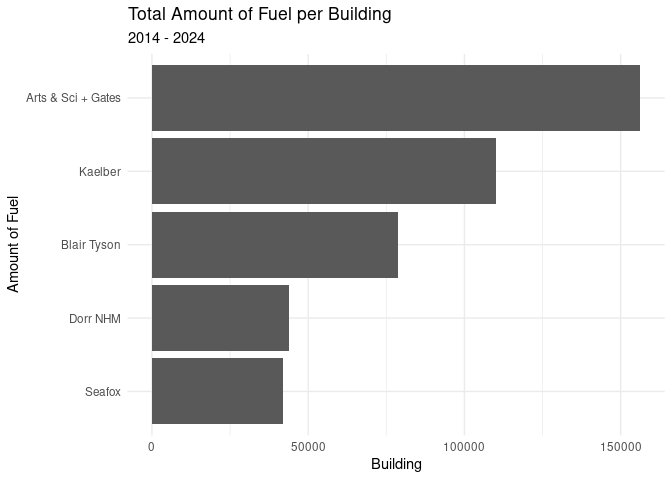
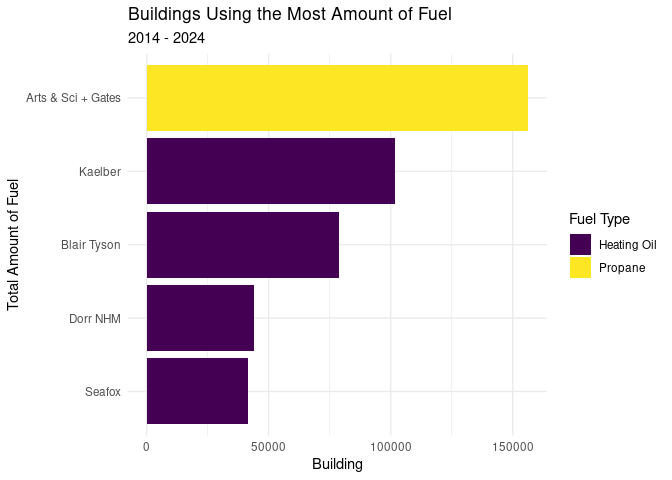
Finalize plots 2 and 3

diff --git a/memo/memo.md b/memo/memo.md
@@ -223,44 +223,59 @@ fuels %>%
 
 ``` r
 fuels |>
-  group_by(Building) |>
+  group_by(Building, Fuel_type) |>
   summarize(Total_Gallons_per_Building = sum(Gallons), .groups = "drop") |>
   slice_max(order_by = Total_Gallons_per_Building, n = 5) |>
   slice_max(Total_Gallons_per_Building, n = 5) |>
-  ggplot(aes(y = fct_reorder(Building, Total_Gallons_per_Building), x = Total_Gallons_per_Building)) +
+  ggplot(aes(y = fct_reorder(Building, Total_Gallons_per_Building), x = Total_Gallons_per_Building, fill = Fuel_type)) +
   geom_col() +
   theme_minimal() +
+  scale_fill_viridis_d() +
   guides(color = FALSE) +
-  labs(title = "Total Amount of Fuel per Building",
+  labs(title = "Buildings Using the Most Amount of Fuel",
        subtitle = "2014 - 2024",
        x = "Building",
-       y = "Amount of Fuel")
+       y = "Total Amount of Fuel",
+       fill = "Fuel Type")
 ```
 
 ![](memo_files/figure-gfm/total_fuel_per_building-1.png)<!-- -->
+
+``` r
+ggsave("Buildings-Using-Most-Fuel.png")
+```
+
+    ## Saving 7 x 5 in image
 
 ### Plot 3: 5 biggest over time
 
 ``` r
 fuels |>
-  filter(Building %in% c("Blair Tyson", "Arts & Sci + Gates", "Kaelber", "Dorr NHM", "Seafox"), Year < 2024) |>
+  filter(Building %in% c("Blair Tyson", "Arts & Sci + Gates", "Kaelber"), Year < 2024) |>
   group_by(Building, Year) |>
   summarize(year_sum = sum(Gallons), .groups = "drop") |>
   ggplot(aes(x = Year, y = year_sum, color = Building, group = Building)) +
   geom_point() +
   geom_line() +
   theme_minimal() +
-  labs(title = "Total Gallons of Fuel per Year (2014-2023)",
-       subtitle = "Blair Tyson, Arts & Sciences + Gates, Kaelber, Dorr NHM, Seafox",
+  labs(title = "Total Gallons of Fuel per Year",
+       subtitle = "2014 - 2023, 3 Biggest Consumers",
        y = "Gallons") +
   scale_x_continuous(breaks = seq(from = 2014, to = 2024, by = 1)) +
   ylim(0, NA) +
   scale_color_viridis_d() +
-  geom_vline(xintercept = 2020, colour = "red") +
-  geom_text(aes(x = 2019.25, y = 1000), label = "COVID", colour = "red")
+  geom_vline(xintercept = 2020, linetype = "dotted", colour = "red") +
+  geom_text(aes(x = 2020.5, y = 16000), label = "COVID", colour = "red") +
+  geom_vline(xintercept = 2022,colour = "black") +
+  geom_text(aes(x = 2018.75, y = 1000), label = "BT heat pump water heating system installed", colour = "black") +
+  geom_text(aes(x = 2019.9, y = 3000), label = "Kaelber heat pumps installed", colour = "black")
 ```
 
 ![](memo_files/figure-gfm/5_biggest_over_time-1.png)<!-- -->
+
+``` r
+ggsave("3-biggest-consumers-over-time.png", width = 8, height = 4)
+```
 
 ### Plot ?: A bunch that I’ll rename and clean up later
 
